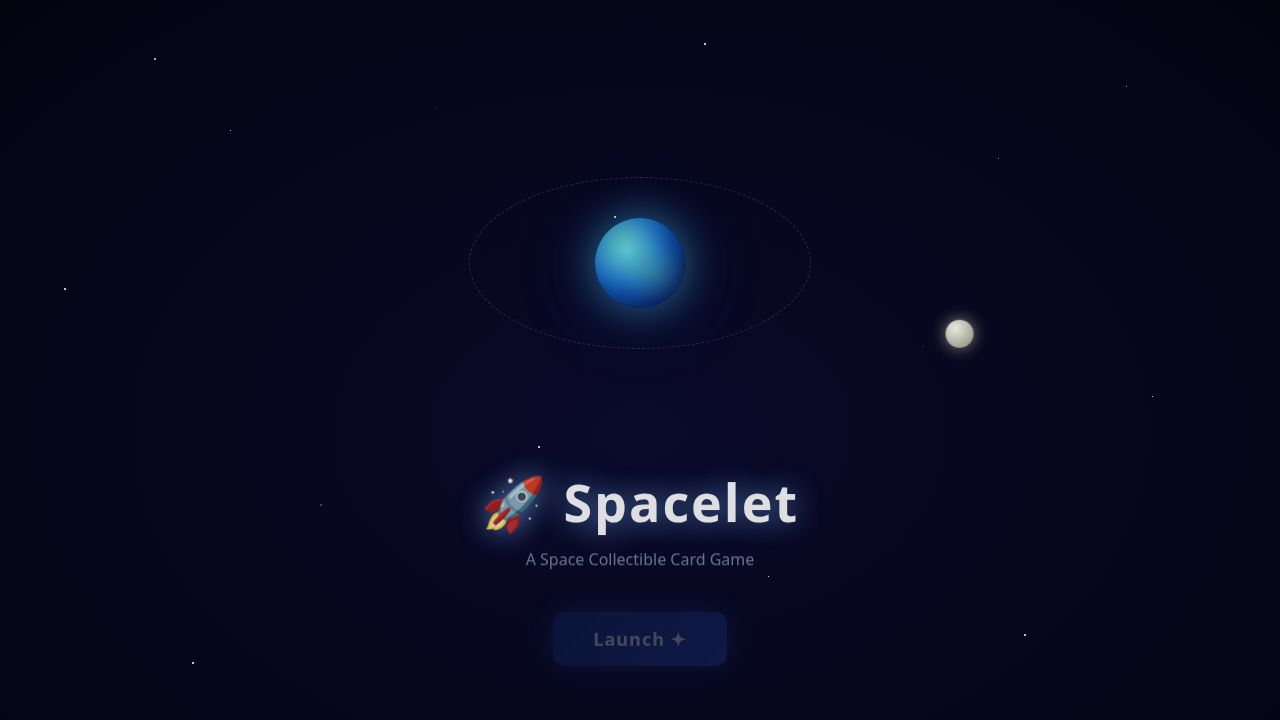
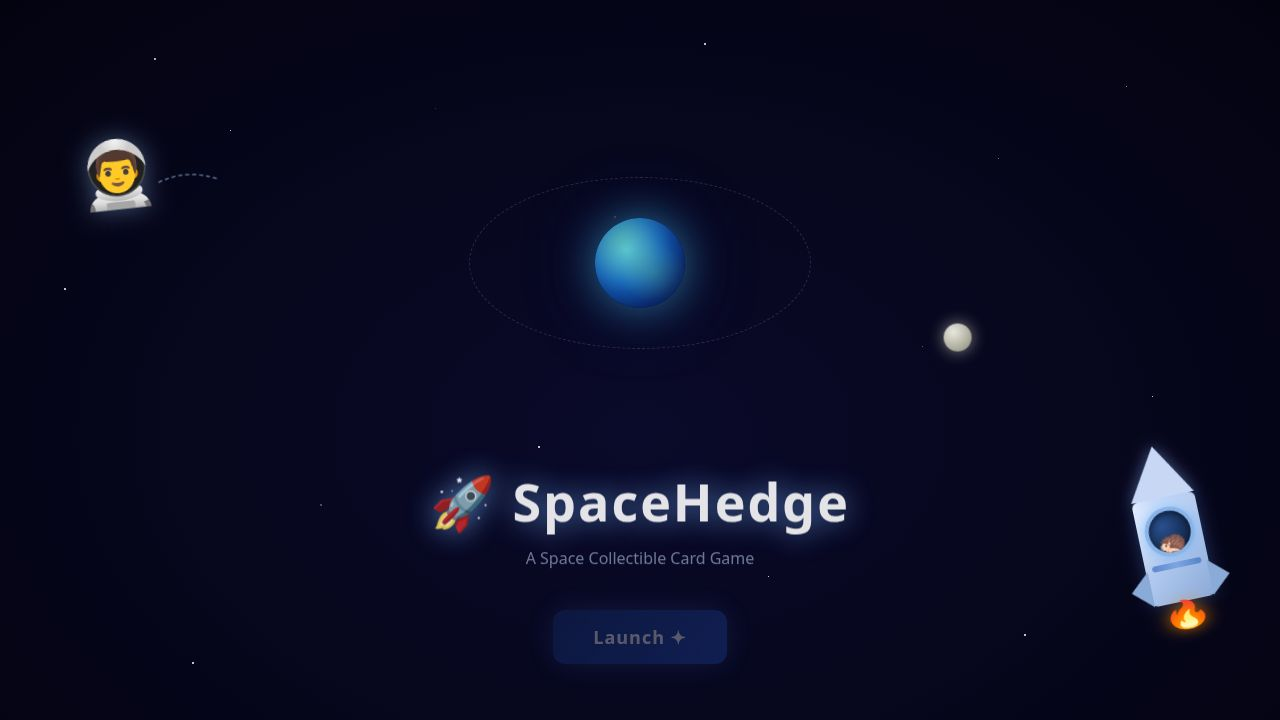
Add global error handling and various bug fixes
Implement global error handling for unhandled promise rejections and uncaught errors, add null guards to `renderTradeGrid` and `getSellPrice`, update backup branding, and fix `loadPlayerData` to include a `.catch()` block.

Replit-Commit-Author: Agent
Replit-Commit-Session-Id: cd20ae13-80f0-4bf1-8ea7-a870b6b6eb14
Replit-Commit-Checkpoint-Type: full_checkpoint
Replit-Commit-Event-Id: 44f480ae-29d2-4d0a-a3eb-d3e1d454415a
Replit-Commit-Screenshot-Url: https://storage.googleapis.com/screenshot-production-us-central1/eb14d3a6-31d7-4a88-b815-46e8f2ff39fd/cd20ae13-80f0-4bf1-8ea7-a870b6b6eb14/W0CPKqW
Replit-Helium-Checkpoint-Created: true

diff --git a/artifacts/hedgelet/index.html b/artifacts/hedgelet/index.html
@@ -1068,6 +1068,14 @@
 
     const prizes = [100, 200, 300, 400, 500, 600, 700, 800, 900, 1000];
 
+    // Global error capture — logs the full stack so we can debug
+    window.addEventListener('unhandledrejection', e => {
+        console.error('[SpaceHedge] Unhandled promise rejection:', e.reason?.message || e.reason, e.reason?.stack);
+    });
+    window.addEventListener('error', e => {
+        console.error('[SpaceHedge] Uncaught error:', e.message, 'at', e.filename, e.lineno + ':' + e.colno, e.error?.stack);
+    });
+
     const TW = 'https://cdn.jsdelivr.net/gh/twitter/twemoji@14.0.2/assets/svg/';
     const blookData = {
         1:  { name: "space explorer 1",   emoji: TW+'1f994.svg', pack: "space explorer" },
@@ -1365,6 +1373,8 @@
                 startModListener(uid);
                 onPlayerReady(data.username);
             }
+        }).catch(e => {
+            console.error('[SpaceHedge] loadPlayerData error:', e.message, e.stack);
         });
     }
 
@@ -1793,6 +1803,8 @@
         luckMultiplier = newMult;
         if (newMult > 1 && newMult !== prev) showLuckAnnouncement(newMult, data?.activatedBy || 'Staff');
         updateLuckBadge();
+    }, err => {
+        console.warn('[SpaceHedge] globalLuck RTDB unavailable:', err.message);
     });
 
     const RARITY_ORDER = ['common','uncommon','rare','epic','legendary','chroma','mythical'];
@@ -2157,7 +2169,7 @@
 
     // ─── SELL SYSTEM ──────────────────────────────────────────────────────────
     const SELL_PRICES = { common: 5, uncommon: 8, rare: 15, epic: 35, legendary: 75, chroma: 200, mythical: 0 };
-    function getSellPrice(id) { return SELL_PRICES[blookData[id].rarity || 'common']; }
+    function getSellPrice(id) { return SELL_PRICES[(blookData[id]?.rarity) || 'common'] ?? 5; }
 
     function showToast(msg, color) {
         const t = document.createElement('div');
@@ -2237,6 +2249,7 @@
                 const count = collection[i] || 0;
                 const locked = count === 0;
                 const data = blookData[i];
+                if (!data) { grid.appendChild(card); return; }
                 card.className = `blook-card${locked ? ' locked' : ''}`;
 
                 if (!locked && data.rarity) {
@@ -2316,6 +2329,7 @@
             if ((col[i] || 0) === 0) continue;
             hasAny = true;
             const data = blookData[i];
+            if (!data) continue;
             const card = document.createElement('div');
             const selected = selectedIds.includes(i);
             card.className = 'blook-card' + (selected ? ' trade-selected' : '');

diff --git a/artifacts/api-server/src/routes/backup.ts b/artifacts/api-server/src/routes/backup.ts
@@ -21,7 +21,7 @@ const COLLECTIONS = ["users", "clans", "bazaar", "applications", "partnerCodes",
 
 export async function runBackup(): Promise<string> {
   const timestamp = new Date().toISOString().replace(/[:.]/g, "-");
-  const filename  = `backups/hedgelet-backup-${timestamp}.json`;
+  const filename  = `backups/spacehedge-backup-${timestamp}.json`;
   const data: Record<string, Record<string, unknown>> = {};
 
   for (const col of COLLECTIONS) {
@@ -58,7 +58,7 @@ export async function runBackup(): Promise<string> {
     .join(", ");
 
   await notifyDiscord(
-    `🛡 **Hedgelet Backup Complete**\n` +
+    `🛡 **SpaceHedge Backup Complete**\n` +
     `📦 Collections: ${counts}\n` +
     `🔗 [Download backup](${url})\n` +
     `🕐 ${new Date().toUTCString()}`
@@ -142,7 +142,7 @@ router.post("/admin/restore", async (req, res) => {
 
     const authCount = Object.keys(data["_authUsers"] ?? {}).length;
     await notifyDiscord(
-      `✅ **Hedgelet Restore Complete**\n` +
+      `✅ **SpaceHedge Restore Complete**\n` +
       `📄 Docs restored: **${docsWritten}**\n` +
       `👤 Auth accounts in backup: **${authCount}** (Auth cannot be automatically restored — accounts will be recreated when players log in)\n` +
       `📦 Source: \`${filename}\``
